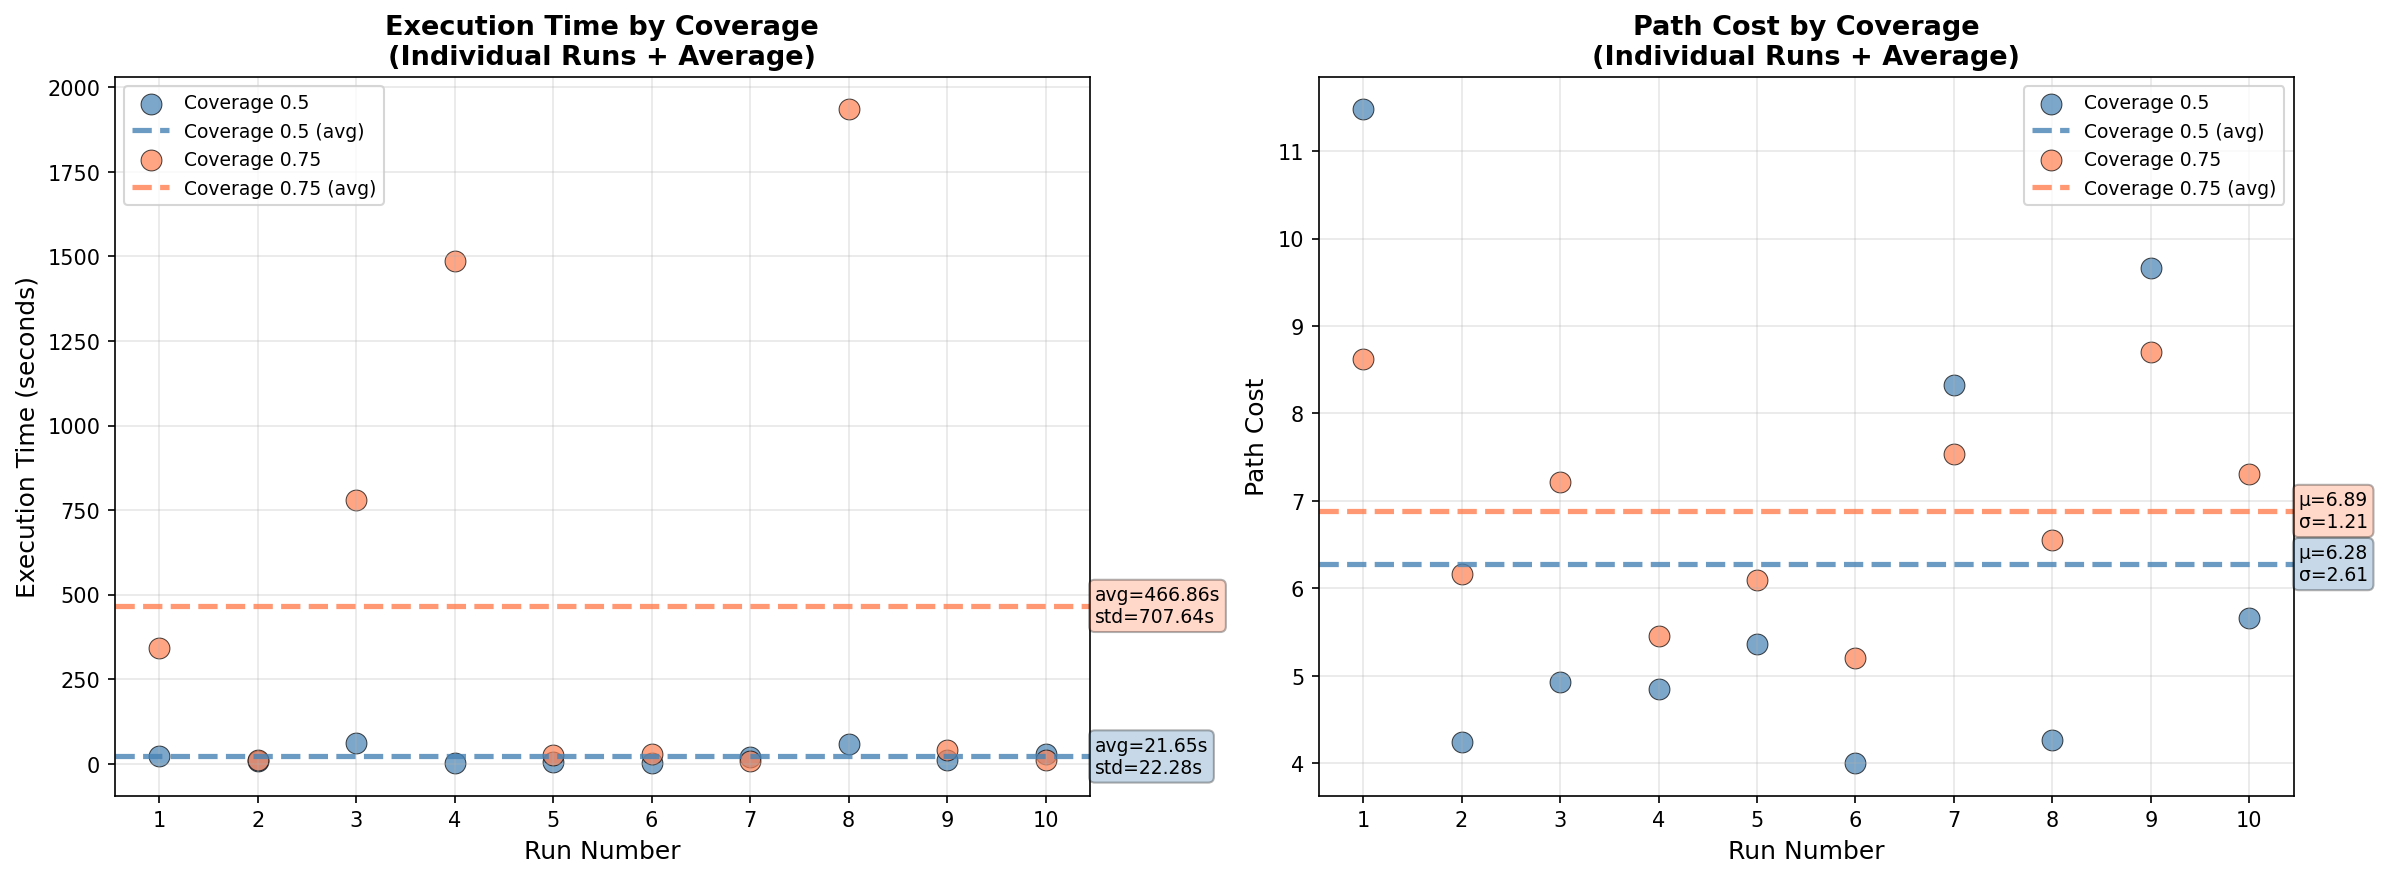
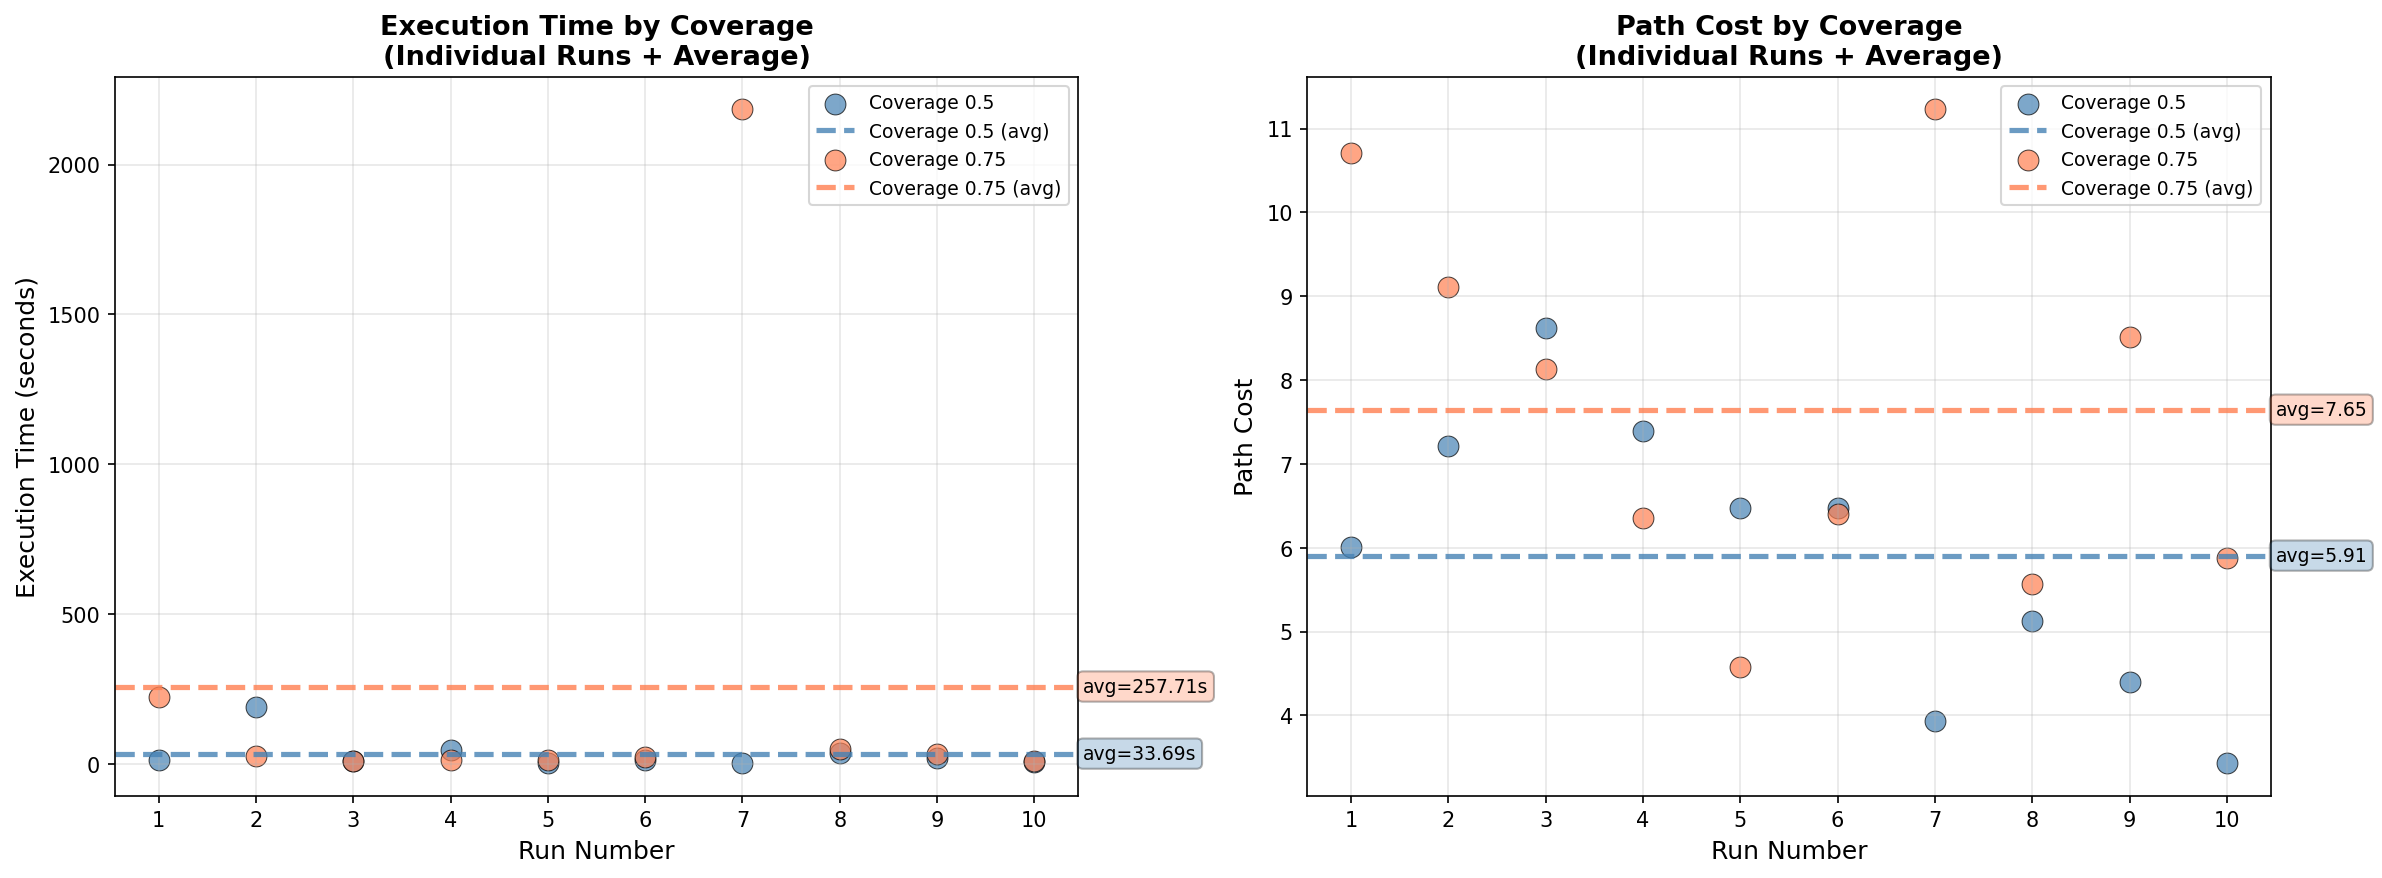
Simplify performance plot annotations in run.py
Updated text annotations in inspection planning performance plots to display only average values, removing standard deviation from the labels for clarity.

diff --git a/run.py b/run.py
@@ -412,7 +412,7 @@ def report_inspection_planning_performance(n_runs=10):
         
         # Add text annotation for avg and std
         ax1.text(len(times) + 0.5, avg_time, 
-                f'avg={avg_time:.2f}s\nstd={std_time:.2f}s',
+                f'avg={avg_time:.2f}s',
                 fontsize=9, va='center', 
                 bbox=dict(boxstyle='round,pad=0.3', facecolor=colors[idx], alpha=0.3))
     
@@ -441,7 +441,7 @@ def report_inspection_planning_performance(n_runs=10):
         
         # Add text annotation for avg and std
         ax2.text(len(costs) + 0.5, avg_cost, 
-                f'μ={avg_cost:.2f}\nσ={std_cost:.2f}',
+                f'avg={avg_cost:.2f}',
                 fontsize=9, va='center',
                 bbox=dict(boxstyle='round,pad=0.3', facecolor=colors[idx], alpha=0.3))
     
